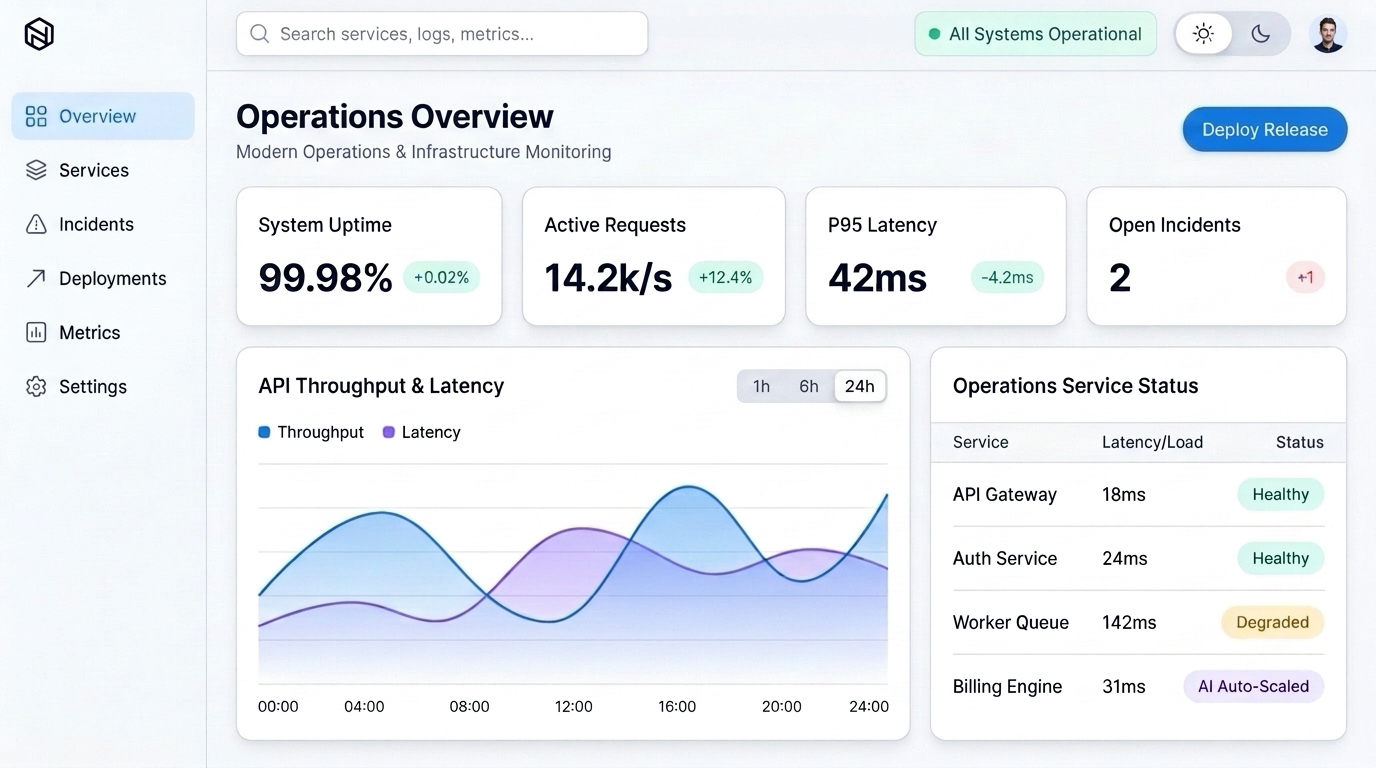
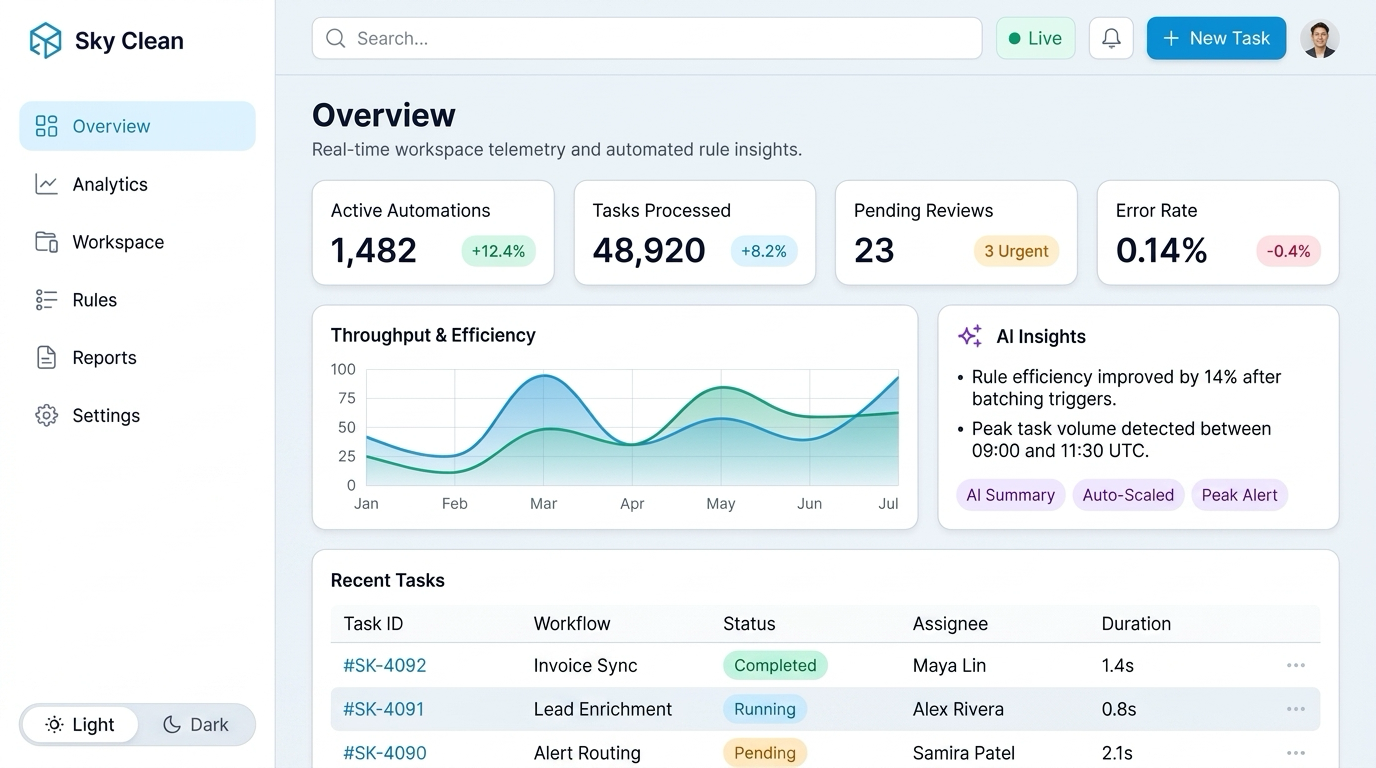
feat: update 1.default theme palette (Sky Clean Light-First & Deep Navy/Cyan Dark) and regenerate previews

diff --git a/src/.speedy/docs/themes/1.default/1.DESIGN_SYSTEM_AND_TOKENS.md b/src/.speedy/docs/themes/1.default/1.DESIGN_SYSTEM_AND_TOKENS.md
@@ -1,74 +1,92 @@
-# Theme `1.default` — Design System & Tokens (Apple Clean · Light & Dark Mode)
+# Theme `1.default` — Design System & Tokens (Sky Clean · Light-First & Deep Navy Dark)
 
-> **Mục tiêu**: Bộ Design Tokens chuẩn mực, hiện đại và dễ mở rộng cho Web App / Web Dashboard, hỗ trợ đầy đủ **Light Mode** và **Dark Mode** qua CSS Custom Properties (`:root` và `[data-theme="dark"]` / `prefers-color-scheme: dark`).
+> **Mục tiêu**: Bộ Design Tokens sáng thoáng (**Light-First** với Sky Blue `#0284c7` trên nền `#f1f5f9` + thẻ trắng tinh khôi, và **Dark Mode** Deep Navy `#0b0f19` với Sky Cyan `#38bdf8`), tối ưu cho Web App & Dashboard chuyên nghiệp, tách biệt hoàn toàn với `2.tabler` và `3.midnight`.
 
 ---
 
-## 1. Bảng Màu Thương Hiệu & Trạng Thái (Light Mode & Dark Mode)
+## 1. Bảng Màu Thương Hiệu & Trạng Thái (Light-First & Deep Navy Dark)
 
-| Token Name | Light Mode | Light Soft BG | Dark Mode | Dark Soft BG | Ý nghĩa sử dụng |
+| Token Name | Light Mode *(Mặc định)* | Light Soft BG | Dark Mode | Dark Soft BG | Ý nghĩa sử dụng |
 |---|---|---|---|---|---|
-| `--color-primary` | `#0071e3` | `#e0f2fe` | `#2997ff` | `rgba(41, 151, 255, 0.16)` | Màu nhấn chủ đạo, CTA, liên kết |
-| `--color-success` | `#10b981` | `#ecfdf5` | `#34d399` | `rgba(52, 211, 153, 0.16)` | Thành công, tăng trưởng, trạng thái ổn định |
-| `--color-danger` | `#f43f5e` | `#fff1f2` | `#fb7185` | `rgba(251, 113, 133, 0.16)` | Lỗi, cảnh báo nghiêm trọng, hành động xóa |
-| `--color-accent-ai` | `#8b5cf6` | `#f5f3ff` | `#a78bfa` | `rgba(167, 139, 250, 0.18)` | Tác vụ AI, gợi ý thông minh, highlight |
-| `--color-warning` | `#f59e0b` | `#fef3c7` | `#fbbf24` | `rgba(251, 191, 36, 0.16)` | Cảnh báo nhẹ, trạng thái chờ xử lý |
-| `--bg-canvas` | `#f8fafc` | — | `#0b1120` | — | Nền tổng thể toàn trang |
-| `--bg-surface` | `#ffffff` | — | `#111827` | — | Nền thẻ nổi (Card), panel chính |
-| `--bg-surface-elevated` | `#f1f5f9` | — | `#1e293b` | — | Nền khối phụ, trạng thái hover hàng bảng |
+| `--color-primary` | `#0284c7` *(hover `#0369a1`)* | `#e0f2fe` | `#38bdf8` *(hover `#60a5fa`)* | `rgba(56, 189, 248, 0.16)` | Màu nhấn chủ đạo Sky Blue / Sky Cyan, CTA, liên kết, active nav |
+| `--color-success` | `#059669` | `#ecfdf5` | `#34d399` | `rgba(52, 211, 153, 0.16)` | Thành công, tăng trưởng, trạng thái ổn định |
+| `--color-danger` | `#e11d48` | `#fff1f2` | `#fb7185` | `rgba(251, 113, 133, 0.16)` | Lỗi, cảnh báo nghiêm trọng, hành động xóa |
+| `--color-warning` | `#d97706` | `#fef3c7` | `#fbbf24` | `rgba(251, 191, 36, 0.16)` | Cảnh báo nhẹ, trạng thái quan sát / chờ xử lý |
+| `--color-accent-ai` | `#7c3aed` | `#f5f3ff` | `#c084fc` | `rgba(192, 132, 252, 0.16)` | Tác vụ AI, gợi ý thông minh, highlight phụ |
+| `--bg-canvas` (`--bg-app`) | `#f1f5f9` | — | `#0b0f19` | — | Nền tổng thể toàn trang (xám lạnh dịu / deep navy slate) |
+| `--bg-surface` (`--bg-card`) | `#ffffff` | — | `#111827` | — | Nền thẻ nổi (Card), panel chính |
+| `--bg-sidebar` | `#ffffff` | — | `#0e1422` | — | Nền thanh điều hướng trái (Collapsible Sidebar `240px → 70px`) |
+| `--bg-surface-elevated` (`--bg-subtle`) | `#f8fafc` | — | `#1a2234` *(hover `#1f293d`)* | — | Nền khối phụ, ô nhập liệu, trạng thái hover hàng bảng |
 | `--text-main` | `#0f172a` | — | `#f8fafc` | — | Tiêu đề, nội dung và số liệu chính |
-| `--text-muted` | `#64748b` | — | `#94a3b8` | — | Nhãn phụ, chú thích, metadata |
-| `--border-subtle` | `#e2e8f0` | `#f1f5f9` | `#1f2937` | `#334155` | Viền thẻ mỏng 1px, đường phân cách |
+| `--text-muted` | `#334155` | — | `#cbd5e1` | — | Nhãn phụ, mô tả đọc chính |
+| `--text-subtle` | `#475569` | — | `#94a3b8` | — | Chú thích nhỏ, timestamp, metadata |
+| `--border-subtle` | `#e2e8f0` | — | `rgba(255, 255, 255, 0.08)` | — | Đường phân cách mảnh bên trong card/table |
+| `--border-card` | `#cbd5e1` | — | `rgba(255, 255, 255, 0.14)` | — | Viền card nổi và viền phân tách sidebar |
 
 ### CSS Variables Tham Chiếu Nhanh
 
 ```css
-:root {
+:root,
+[data-theme="light"] {
   color-scheme: light;
-  --color-primary: #0071e3;
-  --color-primary-soft: #e0f2fe;
-  --color-success: #10b981;
-  --color-success-soft: #ecfdf5;
-  --color-danger: #f43f5e;
-  --color-danger-soft: #fff1f2;
-  --color-accent-ai: #8b5cf6;
-  --color-accent-ai-soft: #f5f3ff;
-  --color-warning: #f59e0b;
-  --color-warning-soft: #fef3c7;
-  --bg-canvas: #f8fafc;
+  --bg-canvas: #f1f5f9;
   --bg-surface: #ffffff;
-  --bg-surface-elevated: #f1f5f9;
-  --bg-glass: rgba(255, 255, 255, 0.85);
-  --text-main: #0f172a;
-  --text-muted: #64748b;
+  --bg-sidebar: #ffffff;
+  --bg-surface-elevated: #f8fafc;
+  --bg-glass: rgba(255, 255, 255, 0.88);
   --border-subtle: #e2e8f0;
-  --shadow-sm: 0 4px 20px -2px rgba(0, 0, 0, 0.04), 0 2px 6px -1px rgba(0, 0, 0, 0.02);
-  --shadow-md: 0 12px 30px -4px rgba(0, 0, 0, 0.08), 0 4px 10px -2px rgba(0, 0, 0, 0.03);
-  --shadow-lg: 0 25px 60px -15px rgba(0, 0, 0, 0.15), 0 0 0 1px rgba(0, 0, 0, 0.05);
+  --border-card: #cbd5e1;
+
+  --color-primary: #0284c7;
+  --color-primary-hover: #0369a1;
+  --color-primary-soft: #e0f2fe;
+  --color-success: #059669;
+  --color-success-soft: #ecfdf5;
+  --color-danger: #e11d48;
+  --color-danger-soft: #fff1f2;
+  --color-warning: #d97706;
+  --color-warning-soft: #fef3c7;
+  --color-accent-ai: #7c3aed;
+  --color-accent-ai-soft: #f5f3ff;
+
+  --text-main: #0f172a;
+  --text-muted: #334155;
+  --text-subtle: #475569;
+
+  --shadow-sm: 0 1px 3px 0 rgba(15, 23, 42, 0.08);
+  --shadow-md: 0 4px 16px -2px rgba(15, 23, 42, 0.08), 0 2px 4px -1px rgba(15, 23, 42, 0.04);
+  --shadow-lg: 0 10px 25px -3px rgba(15, 23, 42, 0.12);
 }
 
 [data-theme="dark"] {
   color-scheme: dark;
-  --color-primary: #2997ff;
-  --color-primary-soft: rgba(41, 151, 255, 0.16);
+  --bg-canvas: #0b0f19;
+  --bg-surface: #111827;
+  --bg-sidebar: #0e1422;
+  --bg-surface-elevated: #1a2234;
+  --bg-glass: rgba(11, 15, 25, 0.88);
+  --border-subtle: rgba(255, 255, 255, 0.08);
+  --border-card: rgba(255, 255, 255, 0.14);
+
+  --color-primary: #38bdf8;
+  --color-primary-hover: #60a5fa;
+  --color-primary-soft: rgba(56, 189, 248, 0.16);
   --color-success: #34d399;
   --color-success-soft: rgba(52, 211, 153, 0.16);
   --color-danger: #fb7185;
   --color-danger-soft: rgba(251, 113, 133, 0.16);
-  --color-accent-ai: #a78bfa;
-  --color-accent-ai-soft: rgba(167, 139, 250, 0.18);
   --color-warning: #fbbf24;
   --color-warning-soft: rgba(251, 191, 36, 0.16);
-  --bg-canvas: #0b1120;
-  --bg-surface: #111827;
-  --bg-surface-elevated: #1e293b;
-  --bg-glass: rgba(17, 24, 39, 0.82);
+  --color-accent-ai: #c084fc;
+  --color-accent-ai-soft: rgba(192, 132, 252, 0.16);
+
   --text-main: #f8fafc;
-  --text-muted: #94a3b8;
-  --border-subtle: #1f2937;
-  --shadow-sm: 0 4px 20px -2px rgba(0, 0, 0, 0.35), 0 0 0 1px rgba(255, 255, 255, 0.04);
-  --shadow-md: 0 12px 30px -4px rgba(0, 0, 0, 0.45), 0 0 0 1px rgba(255, 255, 255, 0.06);
-  --shadow-lg: 0 25px 60px -15px rgba(0, 0, 0, 0.65), 0 0 0 1px rgba(255, 255, 255, 0.08);
+  --text-muted: #cbd5e1;
+  --text-subtle: #94a3b8;
+
+  --shadow-sm: 0 1px 3px 0 rgba(0, 0, 0, 0.40);
+  --shadow-md: 0 4px 20px -2px rgba(0, 0, 0, 0.55);
+  --shadow-lg: 0 12px 30px -4px rgba(0, 0, 0, 0.70);
 }
 ```
 
@@ -87,20 +105,20 @@
 
 ---
 
-## 3. Hiệu Ứng Nổi & Kính Mờ (Elevation & Glassmorphism)
+## 3. Hiệu Ứng Nổi, Tooltip & Kính Mờ (Sky Clean Elevation)
 
-- **Shadow Level 1 (Card mặc định)**: `var(--shadow-sm)`
-- **Shadow Level 2 (Hover / Thẻ nổi bật)**: `var(--shadow-md)`
-- **Shadow Level 3 (Modal / Floating Popover)**: `var(--shadow-lg)`
-- **Glassmorphism Topbar / Sticky Header**: `backdrop-filter: blur(16px); background: var(--bg-glass); border-bottom: 1px solid var(--border-subtle);`
+- **Card mặc định**: Nền `var(--bg-surface)`, viền rõ `1px solid var(--border-card)`, bóng `var(--shadow-md)`.
+- **Hover Card**: Bóng nâng mượt lên `var(--shadow-lg)`.
+- **Sticky Topbar**: `backdrop-filter: blur(16px); background: var(--bg-glass); border-bottom: 1px solid var(--border-subtle);`
+- **Floating Tooltip**: Nền đậm tương phản cao (`rgba(11, 17, 32, 0.96)`), viền `1px solid rgba(56, 189, 248, 0.45)`, chữ `#f8fafc`, bo góc `8px`.
 
 ---
 
 ## 4. Bo Góc, Sàn Khoảng Thở & Control Tokens (8pt Grid)
 
-- `--radius-sm`: `8px` (Input, nút bấm)
+- `--radius-sm`: `8px` (Input, nút bấm, tooltip)
 - `--radius-md`: `12px` (Thẻ phụ, dropdown menu)
-- `--radius-lg`: `16px–20px` (Card chính, Modal)
+- `--radius-lg`: `16px` (Card chính, Modal)
 - `--radius-pill`: `9999px` (Pill badges, Avatar tròn, nút chuyển Light/Dark Mode)
 - **Spacing Floor (bắt buộc)**:
   - `--space-section`: `32px` (khoảng cách tối thiểu giữa các section lớn)

diff --git a/src/.speedy/docs/themes/README.md b/src/.speedy/docs/themes/README.md
@@ -6,7 +6,7 @@ Thư mục này chứa các bộ **Design System & Layout Template** dựng sẵ
 
 | Thư mục | Tên mẫu | Phong cách | Ảnh xem trước | Hỗ trợ chế độ |
 |---|---|---|---|---|
-| `1.default/` | **Apple Clean & Glassmorphism** | Hiện đại, tối giản, thẻ nổi bo tròn mềm, kính mờ glassmorphism, lưới 8pt, tối ưu Dashboard & Web App | [preview-light.png](1.default/preview-light.png) · [preview-dark.png](1.default/preview-dark.png) | **Light Mode + Dark Mode** |
+| `1.default/` | **Sky Clean & Soft Elevation** | Sáng thoáng Light-First (nền `#f1f5f9`, thẻ trắng viền rõ, Sky Blue `#0284c7`), Dark Mode Deep Navy + Sky Cyan (`#38bdf8`), Collapsible Sidebar `240px → 70px` | [preview-light.png](1.default/preview-light.png) · [preview-dark.png](1.default/preview-dark.png) | **Light-First + Dark Mode** |
 | `2.tabler/` | **Tabler Enterprise Admin** | Giao diện quản trị doanh nghiệp sắc nét chuẩn Tabler (Bootstrap 5, font Inter, viền 1px mảnh, KPI sparkline, Data Table & Dark Sidebar) | [preview-light.png](2.tabler/preview-light.png) · [preview-dark.png](2.tabler/preview-dark.png) | **Light Mode + Dark Mode** |
 | `3.midnight/` | **Midnight Pro (Aave-Inspired)** | Dark-first obsidian sang trọng, border bo tròn mềm mại (`20px–24px` & full-pill), font geometric sắc nét, filter emoji icon & Bento Explore Table | [preview-light.png](3.midnight/preview-light.png) · [preview-dark.png](3.midnight/preview-dark.png) | **Dark-First + Light Mode** |
 
